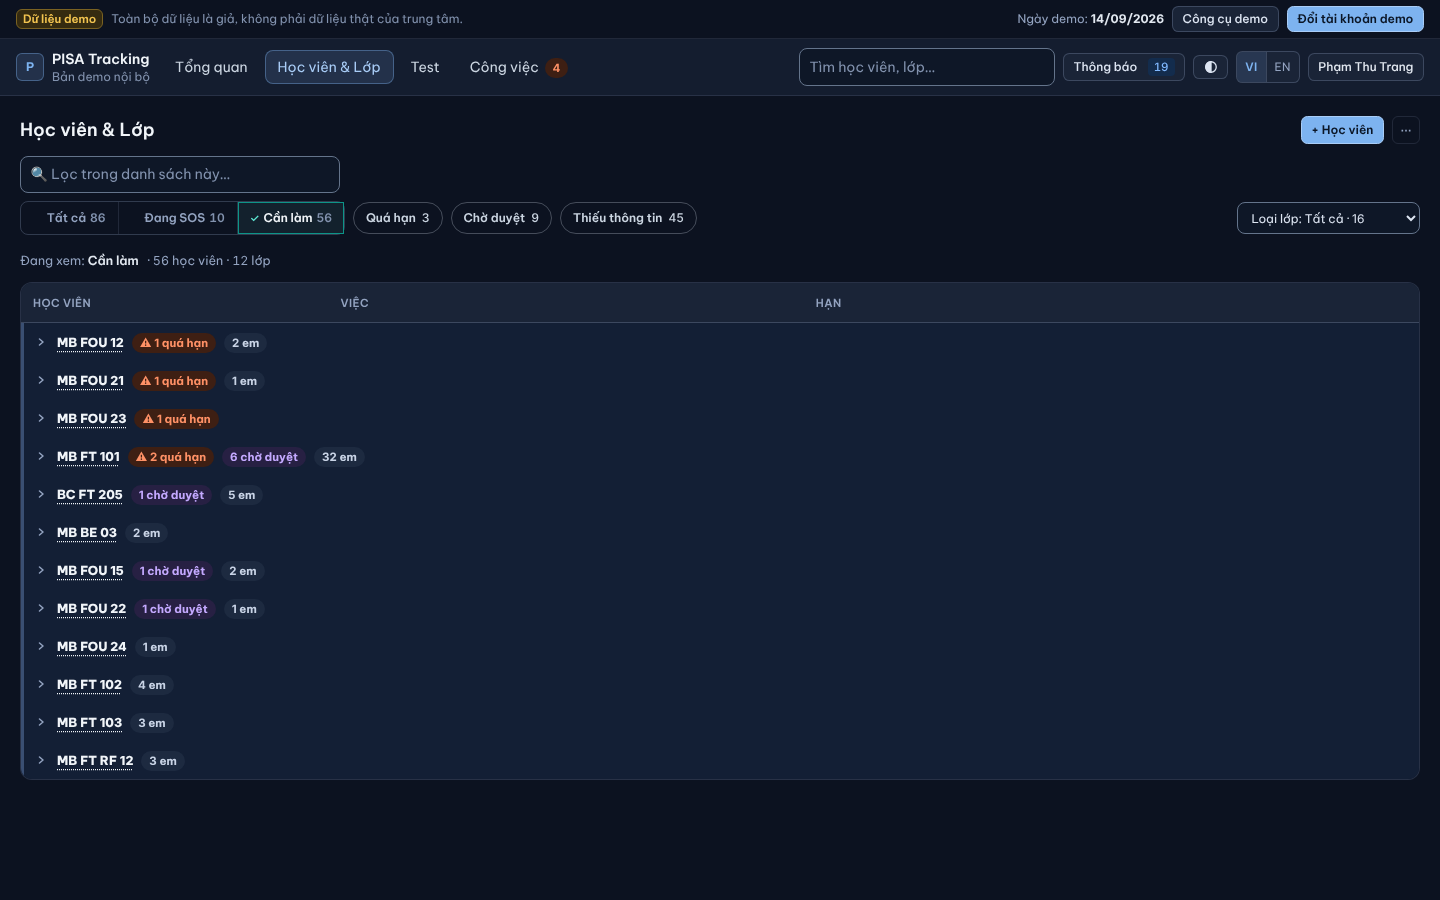
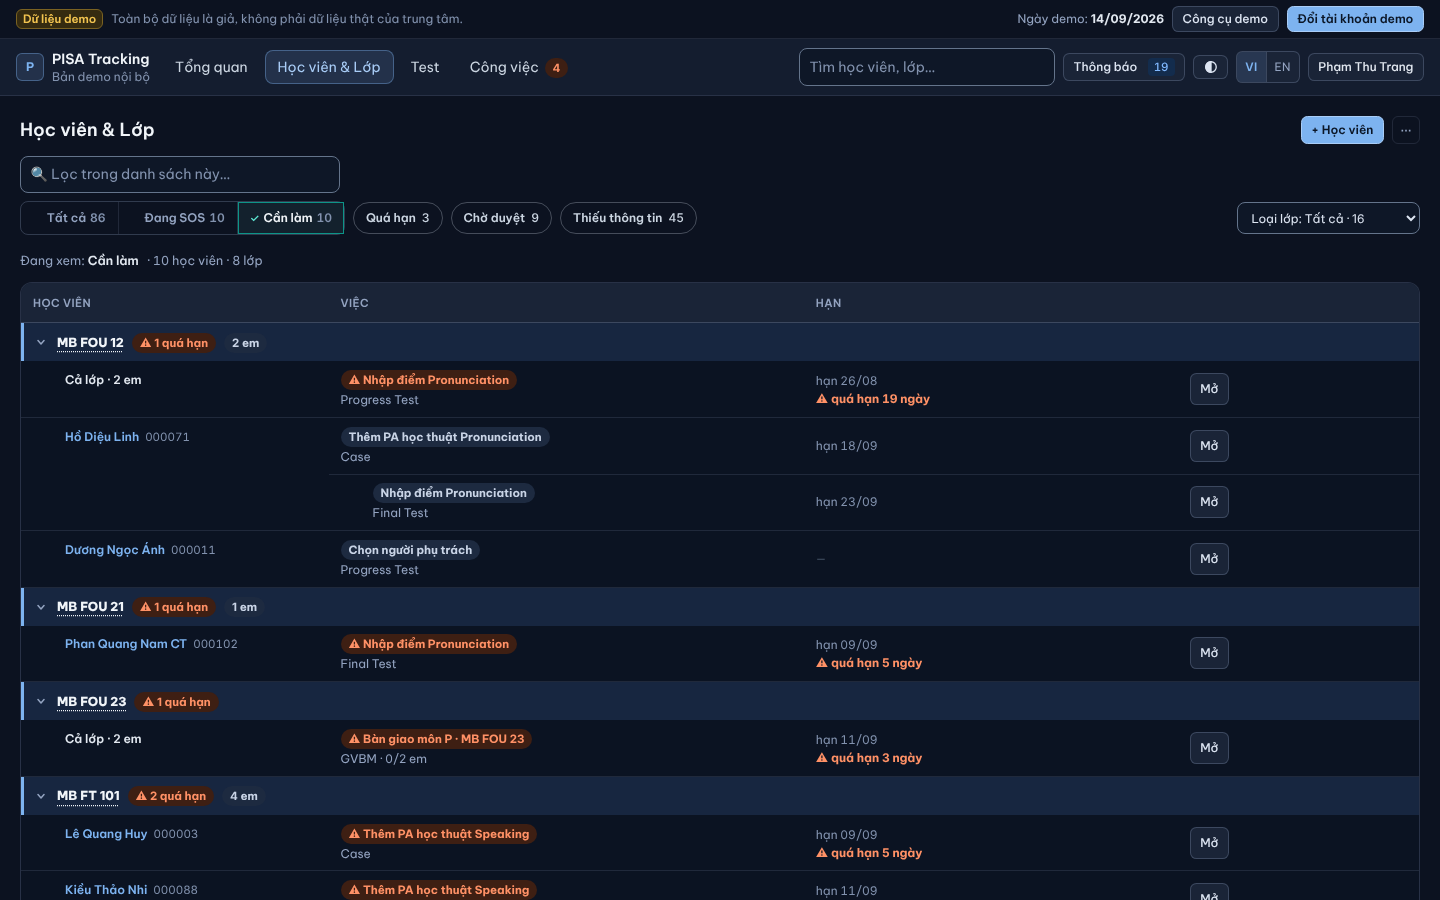
OV-12f: audit — vùng bấm 44 px ở panel một em, Cần làm không rowSpan
Claude-Session: https://claude.ai/code/session_01VnGFuzDrBAAquE99QM7gu4

diff --git a/web/src/modules/students/PanelMotEm.tsx b/web/src/modules/students/PanelMotEm.tsx
@@ -74,7 +74,7 @@ export function PanelMotEm({ studentId, caseMo, onClose, onDoi }: {
   });
   const nganCanh = data && (
     <span className="flex flex-wrap items-center gap-x-1.5 gap-y-1">
-      <Link className="link" to={`/hoc-vien/${studentId}`}>Hồ sơ <span aria-hidden className="text-xs">↗</span></Link>
+      <Link className="link inline-flex min-h-[44px] items-center sm:min-h-0" to={`/hoc-vien/${studentId}`}>Hồ sơ <span aria-hidden className="text-xs">↗</span></Link>
       {lop && <><span aria-hidden>·</span><span>{lop}</span></>}
       {data.luot?.nhan && <><span aria-hidden>·</span><span>{data.luot.nhan}</span></>}
       {!!data.luot?.sosLevel && <Level tone={sosTone(data.luot.sosLevel)}>SOS {data.luot.sosLevel}</Level>}
@@ -142,7 +142,7 @@ export function PanelMotEm({ studentId, caseMo, onClose, onDoi }: {
                           <dt className="text-slate-500">Kết quả gần nhất</dt>
                           <dd className="m-0 text-slate-300">{c.ketQua ?? 'Chưa có kết quả'}</dd>
                         </dl>
-                        <button type="button" className="link appearance-none border-0 bg-transparent p-0 text-xs" onClick={() => setView({ caseId: c.id })}>Xem thêm ›</button>
+                        <button type="button" className="link min-h-[44px] appearance-none border-0 bg-transparent p-0 text-xs sm:min-h-0" onClick={() => setView({ caseId: c.id })}>Xem thêm ›</button>
                       </div>
                     )}
                   </section>

diff --git a/web/src/modules/students/BangCanLam.tsx b/web/src/modules/students/BangCanLam.tsx
@@ -127,11 +127,12 @@ export function BangCanLam({ viec, coNguoi, coPhuHuynh, dienThoai, ds }: {
             <HangNhom mo={mo(g.k)} onMo={() => doi(g.k)} nhan={`lớp ${g.code}`} soCotDau={tieuDe.length} tieuDe={dauLop(g)} />
             {mo(g.k) && g.em.flatMap((e) => e.map((v, i) => (
               <HangCon key={v.key} className="row-hover">
-                {i === 0 && <td className="td align-top" rowSpan={e.length}>{tenEm(v)}</td>}
+                {/* Khối một em: tên chỉ ở dòng đầu (ô trống ở dòng sau — không rowSpan để thụt lề hàng con giữ đúng cột). */}
+                <td className="td align-top">{i === 0 ? tenEm(v) : null}</td>
                 <td className="td"><ChipViec v={v} /></td>
                 {coNguoi && <td className="td">{nguoi(v)}</td>}
                 <td className="td"><OHan v={v} /></td>
-                {coPhuHuynh && (i === 0 ? <td className="td align-top text-sm" rowSpan={e.length}>{v.lienHe ? <OPhuHuynh l={v.lienHe} /> : null}</td> : null)}
+                {coPhuHuynh && <td className="td align-top text-sm">{i === 0 && v.lienHe ? <OPhuHuynh l={v.lienHe} /> : null}</td>}
                 <td className="td text-center">{nut(v)}</td>
               </HangCon>
             )))}
